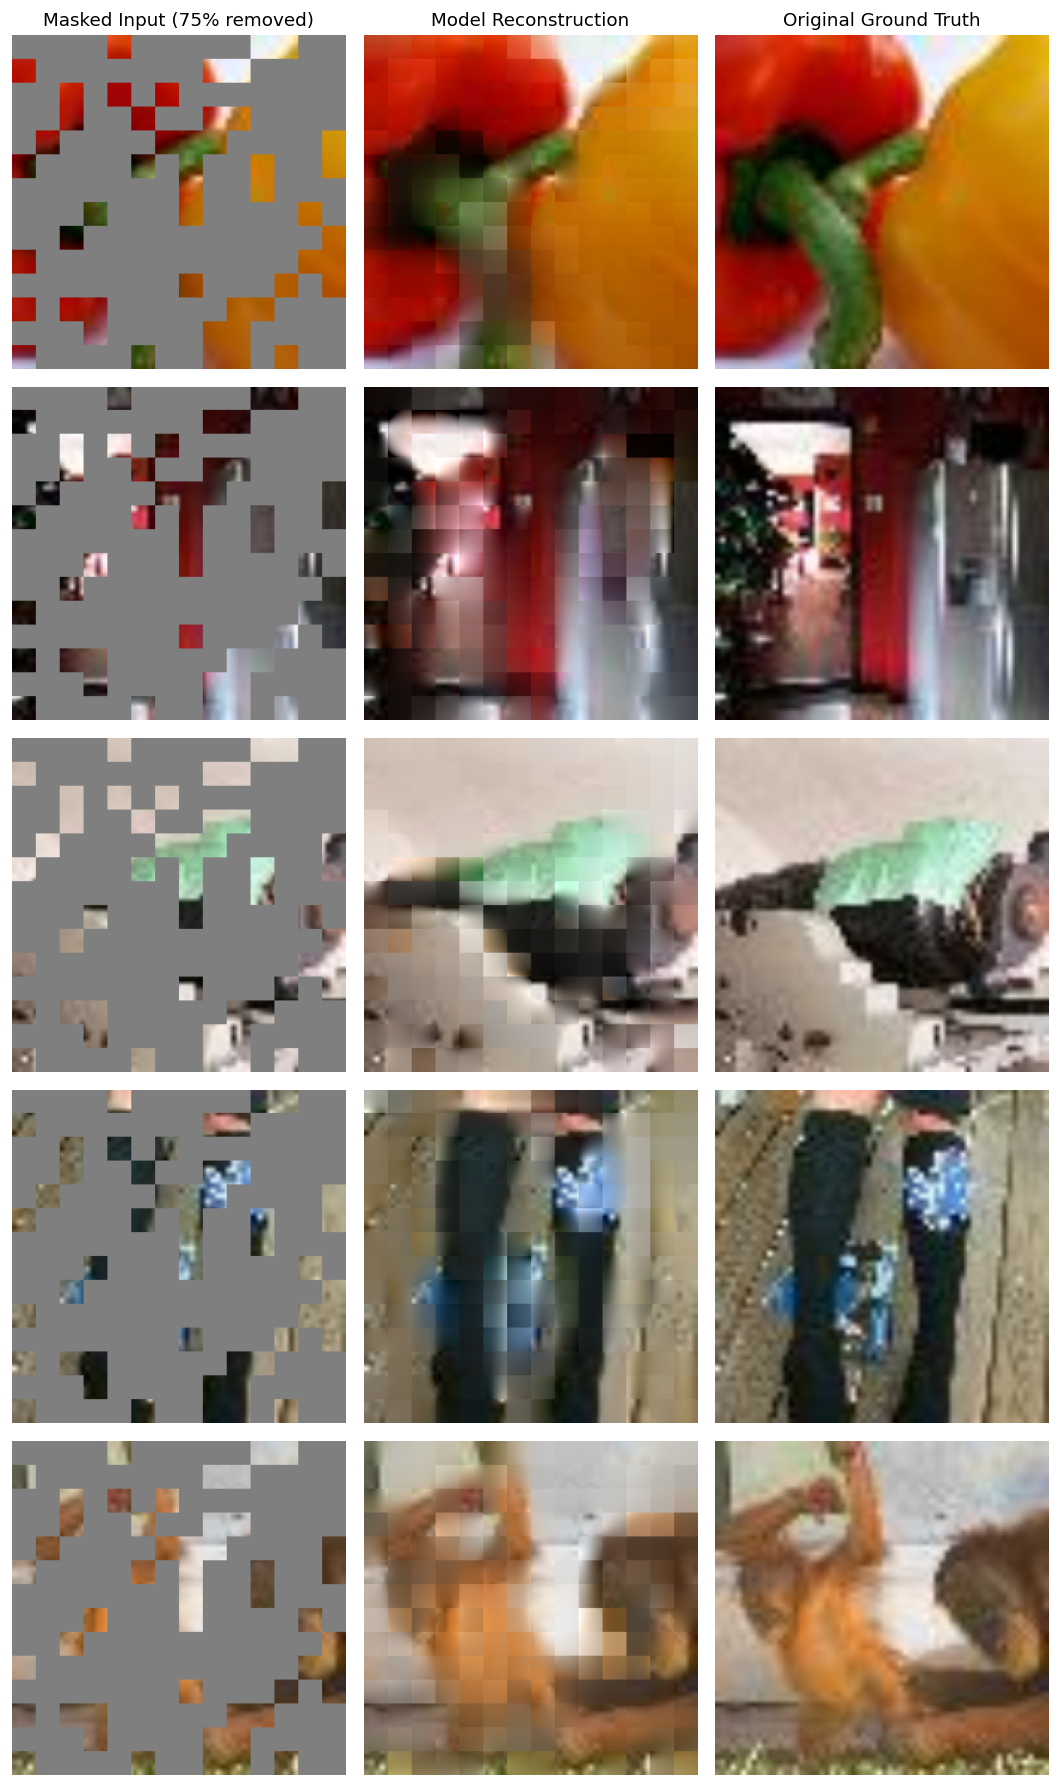
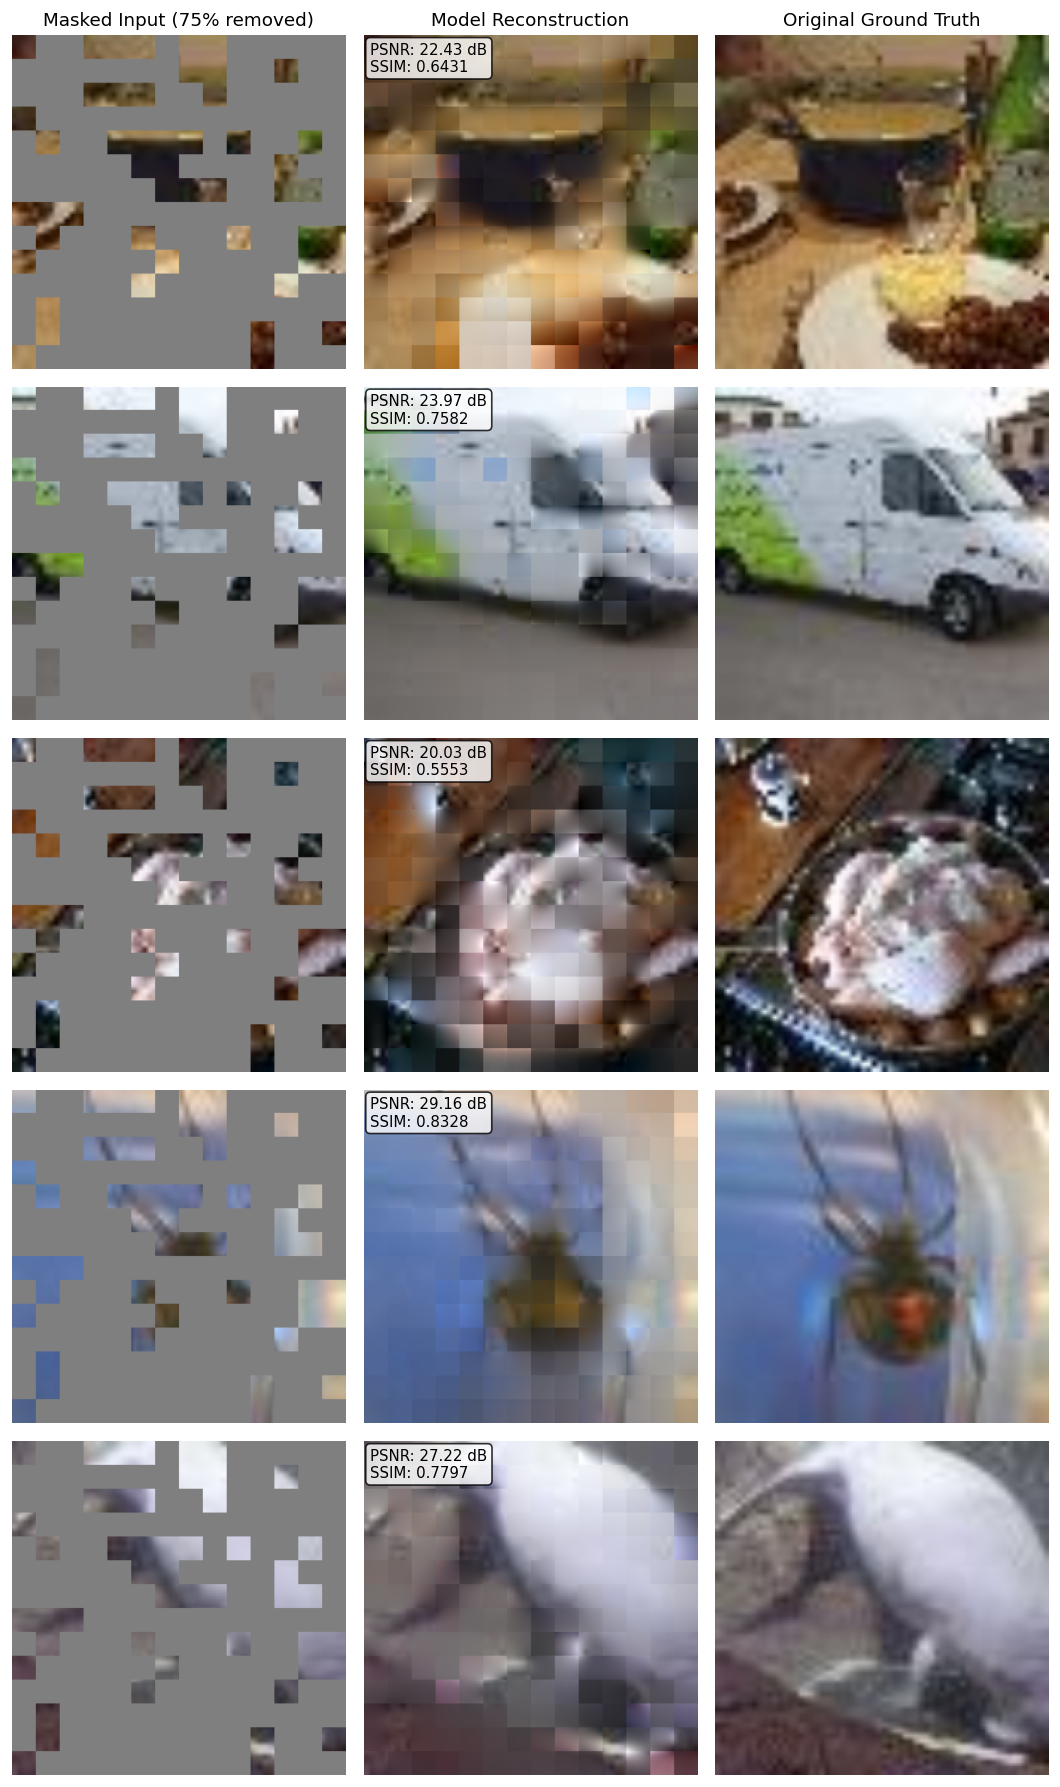
chore metrices

diff --git a/visualize.py b/visualize.py
@@ -12,6 +12,8 @@ import torch
 from torch.utils.data import DataLoader, Subset
 import matplotlib.pyplot as plt
 import numpy as np
+from skimage.metrics import peak_signal_noise_ratio as psnr_sk
+from skimage.metrics import structural_similarity as ssim_sk
 
 from config import IMAGE_SIZE, NUM_PATCHES
 from dataset import TinyImageNet
@@ -34,6 +36,22 @@ def build_masked_image(x, mask_indices, fill=0.5):
     target_patches = target_patches.clone()
     target_patches.scatter_(1, mask_exp, gray_patch)
     return patch_pixels_to_image(target_patches)
+
+
+def compute_psnr_ssim(recon, gt, data_range=1.0):
+    """
+    Compute PSNR (dB) and SSIM between reconstruction and ground truth.
+    recon, gt: (C, H, W) tensors in [0, 1].
+    Returns: (psnr_db, ssim_value).
+    """
+    r = np.clip(recon.numpy(), 0.0, 1.0)
+    g = np.clip(gt.numpy(), 0.0, 1.0)
+    # (C, H, W) -> (H, W, C)
+    r = r.transpose(1, 2, 0)
+    g = g.transpose(1, 2, 0)
+    psnr = psnr_sk(g, r, data_range=data_range)
+    ssim = ssim_sk(g, r, data_range=data_range, channel_axis=2)
+    return float(psnr), float(ssim)
 
 
 def build_reconstruction_image(x, pred_masked, visible_indices, mask_indices):
@@ -79,7 +97,7 @@ def visualize_reconstructions(
     visible_indices = ids[:, :num_visible]
     mask_indices = ids[:, num_visible:]
 
-    collected = []  # list of (masked_im, recon_im, full_im, gt_im) per sample
+    collected = []  # list of (masked_im, recon_im, gt_im, psnr, ssim) per sample
 
     with torch.no_grad():
         for batch in dataloader:
@@ -93,10 +111,15 @@ def visualize_reconstructions(
             recon_im = build_reconstruction_image(x, pred_masked, v, m)
 
             for i in range(x.shape[0]):
+                recon_cpu = recon_im[i].cpu()
+                gt_cpu = x[i].cpu()
+                p, s = compute_psnr_ssim(recon_cpu, gt_cpu)
                 collected.append((
                     masked_im[i].cpu(),
-                    recon_im[i].cpu(),
-                    x[i].cpu(),
+                    recon_cpu,
+                    gt_cpu,
+                    p,
+                    s,
                 ))
                 if len(collected) >= num_examples:
                     break
@@ -110,18 +133,25 @@ def visualize_reconstructions(
     titles = ["Masked Input (75% removed)", "Model Reconstruction", "Original Ground Truth"]
     for i in range(3):
         axes[0, i].set_title(titles[i], fontsize=11)
-    for row, (masked, recon, gt) in enumerate(collected):
+    for row, (masked, recon, gt, psnr, ssim) in enumerate(collected):
         for col, img in enumerate([masked, recon, gt]):
             ax = axes[row, col]
             # (C, H, W) -> (H, W, C), clip to [0, 1]
             arr = img.permute(1, 2, 0).numpy()
             arr = np.clip(arr, 0.0, 1.0)
             ax.imshow(arr)
+            if col == 1:
+                ax.text(0.02, 0.98, f"PSNR: {psnr:.2f} dB\nSSIM: {ssim:.4f}",
+                        transform=ax.transAxes, fontsize=9, verticalalignment="top",
+                        bbox=dict(boxstyle="round", facecolor="white", alpha=0.8))
             ax.set_axis_off()
     plt.tight_layout()
     plt.savefig(save_path, dpi=120, bbox_inches="tight")
     plt.close()
+    mean_psnr = np.mean([c[3] for c in collected])
+    mean_ssim = np.mean([c[4] for c in collected])
     print(f"Saved {n} qualitative examples to {save_path}")
+    print(f"Mean PSNR: {mean_psnr:.2f} dB  Mean SSIM: {mean_ssim:.4f}")
 
 
 def main():
